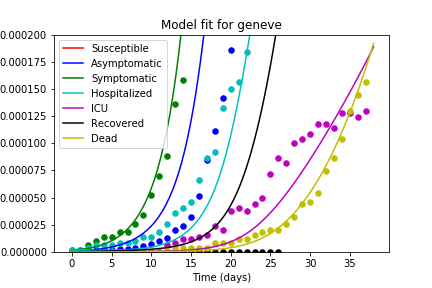
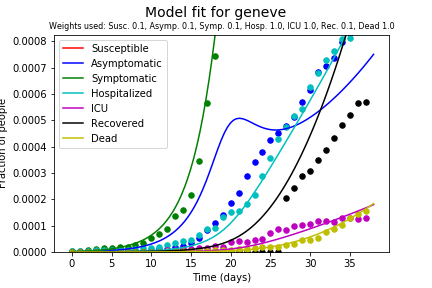
Individual weights per category + subtitle in plots

diff --git a/infectionModel_v3.0.py b/infectionModel_v3.0.py
@@ -22,7 +22,7 @@ colors = ['r', 'b', 'g', 'c', 'm', 'k', 'y']
 country = 'geneve' #pick 'iceland' for Iceland
 datafile = country + '_data.csv'
 parameterfile = country + '_parameters.txt'
-input_dict = file_to_dict(parameterfile)  
+input_dict = file_to_dict(parameterfile) 
 
 #loading the actual data
 country_data = data_loader(datafile,input_dict["pop_size"])
@@ -69,12 +69,14 @@ for i in range(0,np.size(country_data,1)):
     ax1.scatter(t_measured, country_data[:,i], marker='o', color=colors[i], label='measured data', s=30)
     ax1.plot(np.linspace(0., amount_of_days, 100), data_fitted[:,i], color = colors[i])
     
-ax1.legend(['Susceptible', 'Asymptomatic', 'Symptomatic', 'Hospitalized', 'ICU', 'Recovered', 'Dead'], loc = "upper left")
-ax1.set_title('Model fit for ' + country)
+ax1.legend(['Susceptible', 'Asymptomatic', 'Symptomatic', 'Hospitalized', 'ICU', 'Recovered', 'Dead'], loc = "best")
+plt.suptitle('Model fit for ' + country, fontsize = 14)
+subtitle_string = 'Weights used: Susc. ' + str(params['w_susc'].value) + ', Asymp. ' + str(params['w_asym'].value) + ', Symp. ' + str(params['w_sym'].value)+ ', Hosp. ' + str(params['w_hos'].value)+ ', ICU ' + str(params['w_icu'].value)+ ', Rec. ' + str(params['w_rec'].value)+ ', Dead ' + str(params['w_dead'].value)
+plt.title(subtitle_string, fontsize = 8)
 ax1.set_ylabel('Fraction of people')
 ax1.set_xlabel('Time (days)')
-ax1.set_ylim([0,0.00020])
-#ax1.set_ylim([0, 1.1 * max(data_fitted[:, 1])])
+#ax1.set_ylim([0,0.00020])
+ax1.set_ylim([0, 1.1 * max(data_fitted[:, 1])])
 
 plt.show()
 fig1.savefig('figures/Model_fit_'+ country +'.png')
@@ -88,7 +90,9 @@ for i in range(0,np.size(country_data,1)):
     ax2.plot(t,data_fitted2[:,i],color=colors[i])
 
 ax2.legend(['Susceptible', 'Asymptomatic', 'Symptomatic', 'Hospitalized', 'ICU', 'Recovered', 'Dead'], loc = "upper right")
-ax2.set_title('Population disease model with fitted rates')
+plt.suptitle('Population disease model for ' + country, fontsize = 14)
+subtitle_string = 'Weights used: Susc. ' + str(params['w_susc'].value) + ', Asymp. ' + str(params['w_asym'].value) + ', Symp. ' + str(params['w_sym'].value)+ ', Hosp. ' + str(params['w_hos'].value)+ ', ICU ' + str(params['w_icu'].value)+ ', Rec. ' + str(params['w_rec'].value)+ ', Dead ' + str(params['w_dead'].value)
+plt.title(subtitle_string, fontsize = 8)
 ax2.set_ylabel('Fraction of people')
 ax2.set_xlabel('Time (days)')
 

diff --git a/function_lib_new.py b/function_lib_new.py
@@ -72,12 +72,13 @@ def residual(paras, t, data):
     compute the residual between actual data and fitted data
     """
 
-    n0 = paras['n0_susc'].value, paras['n0_inf1'].value, paras['n0_inf2'].value, paras['n0_inf3'].value, paras['n0_inf4'].value, paras['n0_rec'].value, paras['n0_dead'].value
+    n0 = [paras['n0_susc'].value, paras['n0_inf1'].value, paras['n0_inf2'].value, paras['n0_inf3'].value, paras['n0_inf4'].value, paras['n0_rec'].value, paras['n0_dead'].value]
+    weights = [paras['w_susc'].value, paras['w_asym'].value, paras['w_sym'].value, paras['w_hos'].value, paras['w_icu'].value, paras['w_rec'].value, paras['w_dead'].value]
     model = g(t, n0, paras)
     residual = model-data
     #give hospitalized, ICU & dead people a higher weight
-    for i in [3,4,6]:
-        residual[:,i]=10*residual[:,i]
+    for i in range(0,np.size(residual, axis=1)):
+        residual[:,i]=weights[i]*residual[:,i]
     
     return residual.ravel()
 
@@ -199,5 +200,12 @@ def parameters(input_dict,country_data):
     params.add('n_beds', value=input_dict["n_beds"], vary=False)
     params.add('pop_size', value=input_dict["pop_size"], vary=False)
     params.add('measures_time', value=input_dict["measures_time"], vary=False)
+    params.add('w_susc', value=input_dict["w_susc"], vary = False)
+    params.add('w_asym', value=input_dict["w_asym"], vary = False)
+    params.add('w_sym', value=input_dict["w_sym"], vary = False)
+    params.add('w_hos', value=input_dict["w_hos"], vary = False)
+    params.add('w_icu', value=input_dict["w_icu"], vary = False)
+    params.add('w_rec', value=input_dict["w_rec"], vary = False)
+    params.add('w_dead', value=input_dict["w_dead"], vary = False)
 
     return params
